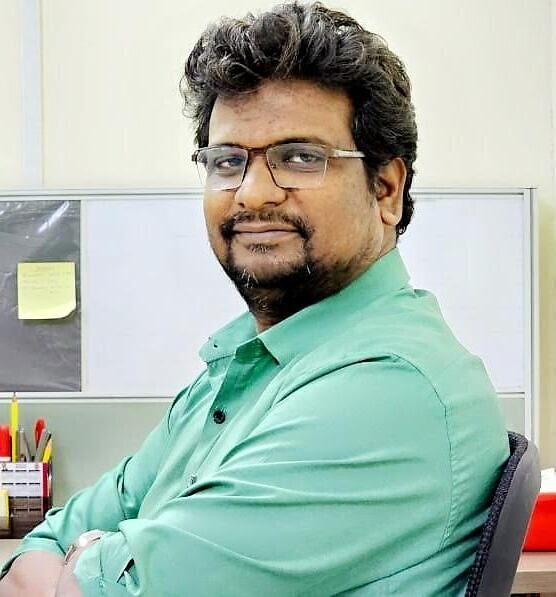
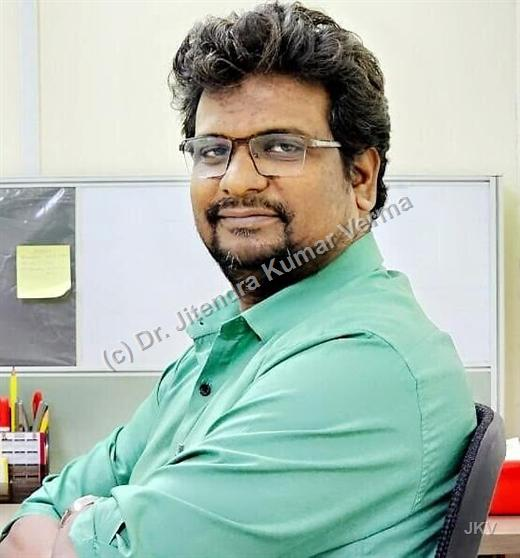
Harden public assets and dashboard access

Changed region(s): [[0.3385, 0.3351, 0.8, 0.6093], [0.1846, 0.5789, 0.3077, 0.6703], [0.8923, 0.914, 0.9538, 0.9749]]

diff --git a/js/dashboard-access.js b/js/dashboard-access.js
@@ -1,12 +1,15 @@
 (function () {
+  // GitHub Pages is fully public, so do not keep passwords, hashes, tokens,
+  // or private data in this JavaScript file.
   const DEFAULT_DASHBOARD_ACCESS_CONFIG = {
     enabled: false,
[1 lines of base64/hex data omitted]
+    passwordHash: ""
   };
   const DASHBOARD_ACCESS_CONFIG = {
     ...DEFAULT_DASHBOARD_ACCESS_CONFIG,
     ...(window.DASHBOARD_ACCESS_CONFIG || {})
   };
+  const dashboardAccessEnabled = Boolean(DASHBOARD_ACCESS_CONFIG.enabled && DASHBOARD_ACCESS_CONFIG.passwordHash);
   const DASHBOARD_PATH = "dashboard.html";
   const DASHBOARD_ACCESS_KEY = "jkv-dashboard-one-time-access";
   let activeDialog = null;
@@ -132,7 +135,7 @@
 
   document.addEventListener("click", async (event) => {
     const link = event.target.closest("[data-dashboard-link]");
-    if (!link || !DASHBOARD_ACCESS_CONFIG.enabled) {
+    if (!link || !dashboardAccessEnabled) {
       return;
     }
 
@@ -145,7 +148,7 @@
   });
 
   if (isDashboardPage()) {
-    if (!DASHBOARD_ACCESS_CONFIG.enabled) {
+    if (!dashboardAccessEnabled) {
       return;
     }
 

diff --git a/sections/home.html b/sections/home.html
@@ -23,7 +23,7 @@
   </div>
   <aside class="hero-showcase" aria-label="Profile highlights">
     <div class="showcase-photo protected-photo">
-      <img src="assets/profile-photo.jpg?v=20260408-1" alt="Dr. Jitendra Kumar Verma" draggable="false" loading="eager" />
+      <img src="assets/profile-photo.jpg?v=20260413-1" alt="Dr. Jitendra Kumar Verma" draggable="false" loading="eager" />
       <span>JKV</span>
     </div>
     <div class="showcase-card">

diff --git a/README.md b/README.md
@@ -20,7 +20,7 @@ Supporting files are organized by purpose:
 - `js/projects.js` - Projects rendering
 - `js/news.js` - News archive rendering and filters
 - `js/dashboard.js` - Dashboard forms, previews, copy, and download behavior
-- `js/dashboard-access.js` - Dashboard password prompt
+- `js/dashboard-access.js` - Optional dashboard access helper; no password or private value is stored in public JavaScript
 - `data/news.json` - Latest news data
 - `data/publications.json` - Publications and intellectual property data
 - `data/projects.json` - Website, utility, and funded project data
@@ -39,12 +39,13 @@ GitHub Pages will serve the root HTML files directly.
 
 ## Dashboard Access
 
-The dashboard is protected by a lightweight browser-side password prompt.
+The dashboard is intentionally not protected by a client-side password.
 
 - Dashboard URL: `dashboard.html`
-- Current password: `*******`
+- Do not place dashboard passwords, password hashes, tokens, API keys, or private data in public JavaScript.
+- On GitHub Pages, dashboard forms should be used only to prepare reviewed JSON updates for the public data files.
 
-Important: because this is a static GitHub Pages site, this is only light access control in the browser, not full secure authentication.
+Important: GitHub Pages is static public hosting. Any password placed in browser-side code can be inspected by visitors.
 
 ## Add or Replace the Profile Photo
 
@@ -54,7 +55,13 @@ Add a portrait image at:
 assets/profile-photo.jpg
 ```
 
-Use a small web version rather than a high-resolution original. Any image shown in a browser can still be copied by a determined visitor, so the best practical protection is to upload only a low-resolution or watermarked version.
+Use a compressed, watermarked web version rather than a high-resolution original. Any image shown in a browser can still be copied by a determined visitor, so the best practical protection is to upload only a low-resolution or watermarked version.
+
+## Copyright and Use
+
+Copyright (c) Dr. Jitendra Kumar Verma. All rights reserved.
+
+Website text, profile information, images, resume material, publication/project metadata, and other personal or academic content may not be copied, reused, republished, or redistributed without written permission, except where allowed by law.
 
 ## Update Latest News
 

diff --git a/COPYRIGHT.md b/COPYRIGHT.md
@@ -1,0 +1,14 @@
+# Copyright Notice
+
+Copyright (c) Dr. Jitendra Kumar Verma. All rights reserved.
+
+This repository contains the public profile website, professional information,
+profile image, publication/project metadata, and related academic content of
+Dr. Jitendra Kumar Verma.
+
+The website content, images, resume material, downloadable documents, and
+profile data may not be copied, reused, republished, redistributed, or used for
+commercial purposes without written permission, except where allowed by law.
+
+Third-party names, publication venues, publishers, indexing services, and
+institutional names remain the property of their respective owners.
